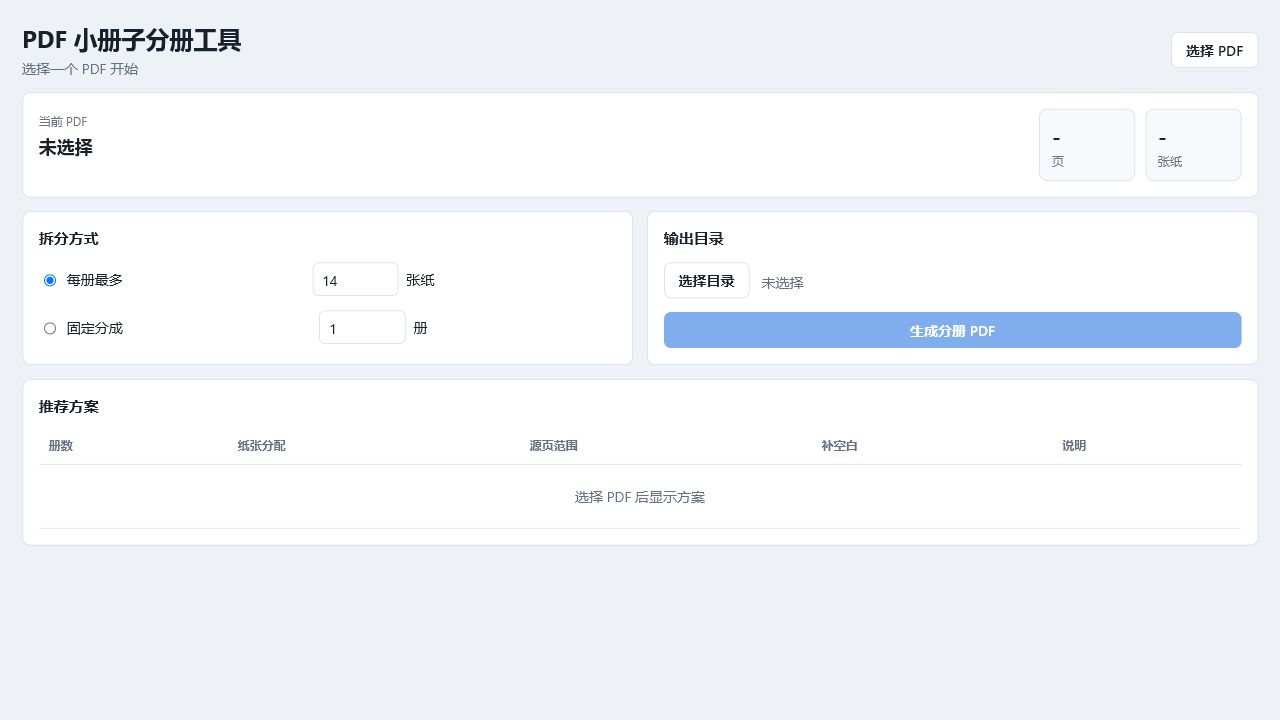
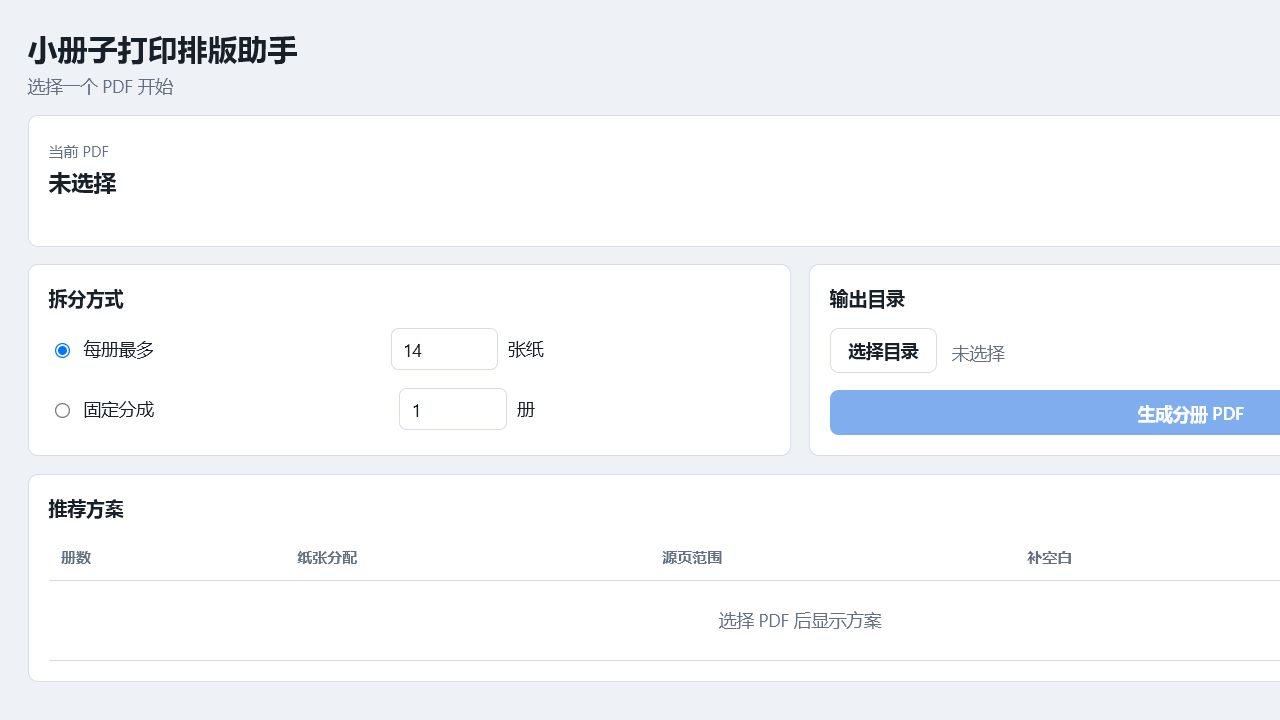
Rename project for booklet print layout

diff --git a/scripts/create_example_pdf.py b/scripts/create_example_pdf.py
@@ -24,7 +24,7 @@ def draw_page(pdf: canvas.Canvas, page_number: int, total_pages: int) -> None:
 
     pdf.setFillColor(colors.HexColor("#0f172a"))
     pdf.setFont("Helvetica-Bold", 22)
-    pdf.drawString(margin + 20, height - margin - 56, "Booklet Splitter Sample")
+    pdf.drawString(margin + 20, height - margin - 56, "Booklet Print Layout Sample")
 
     pdf.setFont("Helvetica", 12)
     pdf.setFillColor(colors.HexColor("#475569"))
@@ -51,8 +51,8 @@ def create_example_pdf(output_path: Path, page_count: int) -> None:
 
     output_path.parent.mkdir(parents=True, exist_ok=True)
     pdf = canvas.Canvas(str(output_path), pagesize=A5, invariant=1)
-    pdf.setTitle("Booklet Splitter Sample PDF")
-    pdf.setAuthor("Booklet Splitter")
+    pdf.setTitle("Booklet Print Layout Assistant Sample PDF")
+    pdf.setAuthor("Booklet Print Layout Assistant")
 
     for page_number in range(1, page_count + 1):
         draw_page(pdf, page_number, page_count)

diff --git a/tests/test_manifest.py b/tests/test_manifest.py
@@ -2,8 +2,8 @@ from __future__ import annotations
 
 from pathlib import Path
 
-from booklet_splitter.core.manifest import build_manifest_text
-from booklet_splitter.core.models import BookletPlan, OutputBooklet
+from booklet_print_layout_assistant.core.manifest import build_manifest_text
+from booklet_print_layout_assistant.core.models import BookletPlan, OutputBooklet
 
 
 def test_manifest_lists_booklet_ranges_and_files() -> None:

diff --git a/tests/test_pdf_writer.py b/tests/test_pdf_writer.py
@@ -2,7 +2,7 @@ from __future__ import annotations
 
 from pypdf import PdfReader, PdfWriter
 
-from booklet_splitter.core.pdf_writer import split_pdf
+from booklet_print_layout_assistant.core.pdf_writer import split_pdf
 
 
 def test_split_pdf_writes_padded_booklet_outputs(tmp_path) -> None:

diff --git a/tests/test_planning.py b/tests/test_planning.py
@@ -2,7 +2,7 @@ from __future__ import annotations
 
 import pytest
 
-from booklet_splitter.core.planning import (
+from booklet_print_layout_assistant.core.planning import (
     build_plan_options,
     distribute_sheets,
     distribute_sheets_by_count,

diff --git a/README.md b/README.md
@@ -1,14 +1,14 @@
-# Booklet Splitter
+# Booklet Print Layout Assistant
 
 [中文说明](README.zh-CN.md)
 
-![Booklet Splitter main window](docs/images/app-main.png)
+![Booklet Print Layout Assistant main window](docs/images/app-main.png)
 
-Booklet Splitter is a desktop tool for splitting a reading-order PDF into
-booklet-sized PDF parts. It is designed for PDFs that will later be printed as
-double-sided booklets, folded, and bound in multiple thin volumes.
+Booklet Print Layout Assistant is a desktop assistant for preparing booklet
+print layouts. The current release focuses on splitting reading-order PDFs into
+booklet-sized parts for printing, folding, and binding.
 
-The first release is intentionally narrow. It focuses on one workflow:
+The first release is intentionally narrow. It focuses on one PDF workflow:
 
 1. Choose a PDF.
 2. Choose a booklet splitting plan.
@@ -47,7 +47,7 @@ Each sheet represents four PDF page slots.
 total_sheets = ceil(total_pages / 4)
 ```
 
-When splitting by maximum sheets per booklet, Booklet Splitter first calculates
+When splitting by maximum sheets per booklet, Booklet Print Layout Assistant first calculates
 how many booklets are needed, then balances sheets across booklets.
 
 Example:
@@ -85,27 +85,27 @@ python -m pytest
 After installing the project:
 
 ```powershell
-booklet-splitter
+booklet-print-layout-assistant
 ```
 
 If your shell cannot find installed scripts, use:
 
 ```powershell
-python -m booklet_splitter
+python -m booklet_print_layout_assistant
 ```
 
 ## Command Line
 
 ```powershell
-booklet-split input.pdf --max-sheets 14
-booklet-split input.pdf --booklet-count 3
-booklet-split input.pdf --booklet-count 3 --output-dir output
+booklet-print input.pdf --max-sheets 14
+booklet-print input.pdf --booklet-count 3
+booklet-print input.pdf --booklet-count 3 --output-dir output
 ```
 
 Fallback form:
 
 ```powershell
-python -m booklet_splitter.cli input.pdf --max-sheets 14
+python -m booklet_print_layout_assistant.cli input.pdf --max-sheets 14
 ```
 
 ## Windows Build
@@ -123,13 +123,13 @@ your global Python environment.
 The distributable folder is:
 
 ```text
-dist\BookletSplitter\
+dist\BookletPrintLayoutAssistant\
 ```
 
 Run:
 
 ```text
-dist\BookletSplitter\BookletSplitter.exe
+dist\BookletPrintLayoutAssistant\BookletPrintLayoutAssistant.exe
 ```
 
 ## Examples
@@ -149,7 +149,7 @@ examples\sample-17-pages.pdf
 Try it with:
 
 ```powershell
-booklet-split examples\sample-17-pages.pdf --booklet-count 2
+booklet-print examples\sample-17-pages.pdf --booklet-count 2
 ```
 
 ## Release Zip
@@ -163,26 +163,40 @@ After building the Windows app, create a zip archive with:
 The release archive is written to:
 
 ```text
-release\BookletSplitter-v0.1.0-windows-x64.zip
+release\BookletPrintLayoutAssistant-v0.1.0-windows-x64.zip
 ```
 
 ## Project Layout
 
 ```text
-src/booklet_splitter/core/      PDF splitting logic and manifest generation
-src/booklet_splitter/app/       pywebview desktop integration
-src/booklet_splitter/frontend/  HTML/CSS/JS interface
+src/booklet_print_layout_assistant/core/      PDF splitting logic and manifest generation
+src/booklet_print_layout_assistant/app/       pywebview desktop integration
+src/booklet_print_layout_assistant/frontend/  HTML/CSS/JS interface
 tests/                          unit and smoke tests
 scripts/                        development and build helpers
 ```
 
+## GitHub Discoverability
+
+Suggested repository name:
+
+```text
+booklet-print-layout-assistant
+```
+
+Suggested topics:
+
+```text
+pdf, booklet, booklet-printing, pdf-splitter, printing, bookbinding,
+imposition, desktop-app, windows, pywebview, pypdf
+```
+
 ## Roadmap
 
-- Add release screenshots.
-- Add copyright-safe example PDFs.
-- Add a zip release script.
 - Add true 2-up booklet imposition.
 - Reintroduce optional color-page workflows.
+- Add EPUB, CBZ, and image-source workflows.
+- Add installer-based Windows distribution.
 
 ## License
 

diff --git a/README.zh-CN.md b/README.zh-CN.md
@@ -1,14 +1,15 @@
-# Booklet Splitter
+# Booklet Print Layout Assistant
 
 [English README](README.md)
 
-![Booklet Splitter 主界面](docs/images/app-main.png)
+![Booklet Print Layout Assistant 主界面](docs/images/app-main.png)
 
-Booklet Splitter 是一个用于 PDF 小册子分册的桌面工具。它适合这样的场景：
-你已经有一个按阅读顺序排好的 PDF，想把它拆成若干个较薄的小册子 PDF，
-方便后续双面打印、折叠和装订。
+Booklet Print Layout Assistant，中文名“小册子打印排版助手”，是一个用于准备
+小册子打印文件的桌面工具。当前版本先聚焦这样的场景：你已经有一个按阅读顺序
+排好的 PDF，想把它拆成若干个较薄的小册子 PDF，方便后续双面打印、折叠和装订。
 
 当前 `v0.1.0` 是一个刻意收窄功能边界的版本，只专注于 PDF 小册子分册。
+后续可以自然扩展 EPUB、CBZ、图片等来源，以及真正的小册子拼版。
 
 ## 功能
 
@@ -74,27 +75,27 @@ python -m pytest
 ## 运行桌面应用
 
 ```powershell
-booklet-splitter
+booklet-print-layout-assistant
 ```
 
 如果当前 shell 找不到安装后的脚本，可以用：
 
 ```powershell
-python -m booklet_splitter
+python -m booklet_print_layout_assistant
 ```
 
 ## 命令行使用
 
 ```powershell
-booklet-split input.pdf --max-sheets 14
-booklet-split input.pdf --booklet-count 3
-booklet-split input.pdf --booklet-count 3 --output-dir output
+booklet-print input.pdf --max-sheets 14
+booklet-print input.pdf --booklet-count 3
+booklet-print input.pdf --booklet-count 3 --output-dir output
 ```
 
 也可以使用：
 
 ```powershell
-python -m booklet_splitter.cli input.pdf --max-sheets 14
+python -m booklet_print_layout_assistant.cli input.pdf --max-sheets 14
 ```
 
 ## 示例 PDF
@@ -114,7 +115,7 @@ examples\sample-17-pages.pdf
 试着拆分：
 
 ```powershell
-booklet-split examples\sample-17-pages.pdf --booklet-count 2
+booklet-print examples\sample-17-pages.pdf --booklet-count 2
 ```
 
 ## Windows 打包
@@ -129,13 +130,13 @@ Anaconda 或全局 Python 环境里的无关依赖带进发布包。
 打包后的目录：
 
 ```text
-dist\BookletSplitter\
+dist\BookletPrintLayoutAssistant\
 ```
 
 运行：
 
 ```text
-dist\BookletSplitter\BookletSplitter.exe
+dist\BookletPrintLayoutAssistant\BookletPrintLayoutAssistant.exe
 ```
 
 ## 生成 Release Zip
@@ -149,25 +150,39 @@ dist\BookletSplitter\BookletSplitter.exe
 生成：
 
 ```text
-release\BookletSplitter-v0.1.0-windows-x64.zip
+release\BookletPrintLayoutAssistant-v0.1.0-windows-x64.zip
 ```
 
 ## 项目结构
 
 ```text
-src/booklet_splitter/core/      PDF 分册逻辑和清单生成
-src/booklet_splitter/app/       pywebview 桌面集成
-src/booklet_splitter/frontend/  HTML/CSS/JS 界面
+src/booklet_print_layout_assistant/core/      PDF 分册逻辑和清单生成
+src/booklet_print_layout_assistant/app/       pywebview 桌面集成
+src/booklet_print_layout_assistant/frontend/  HTML/CSS/JS 界面
 tests/                          测试
 scripts/                        开发和打包脚本
 ```
 
+## GitHub 检索建议
+
+建议仓库名：
+
+```text
+booklet-print-layout-assistant
+```
+
+建议 topics：
+
+```text
+pdf, booklet, booklet-printing, pdf-splitter, printing, bookbinding,
+imposition, desktop-app, windows, pywebview, pypdf
+```
+
 ## 路线图
 
-- 补充更多截图。
-- 增加更多无版权示例 PDF。
 - 增加真正的 A4 2-up 小册子拼版。
 - 重新引入可选彩页工作流。
+- 增加 EPUB、CBZ、图片来源工作流。
 - 增加安装包形式发布。
 
 ## 许可证

diff --git a/RELEASE_NOTES.md b/RELEASE_NOTES.md
@@ -1,29 +1,30 @@
-# Booklet Splitter v0.1.0
+# Booklet Print Layout Assistant v0.1.0
 
-This is the first public preview release of Booklet Splitter.
+This is the first public preview release of Booklet Print Layout Assistant.
 
 ## Download
 
 For Windows, download:
 
 ```text
-BookletSplitter-v0.1.0-windows-x64.zip
+BookletPrintLayoutAssistant-v0.1.0-windows-x64.zip
 ```
 
 Unzip it and run:
 
 ```text
-BookletSplitter\BookletSplitter.exe
+BookletPrintLayoutAssistant\BookletPrintLayoutAssistant.exe
 ```
 
 ## Highlights
 
-- Desktop UI for splitting reading-order PDFs into booklet-sized parts.
+- Desktop UI for preparing booklet print layouts.
+- PDF workflow for splitting reading-order PDFs into booklet-sized parts.
 - Split by maximum sheets per booklet.
 - Split by fixed booklet count.
 - Automatic blank-page padding to fill booklet capacity.
 - Print manifest output: `打印清单.txt` and `manifest.txt`.
-- Command line interface: `booklet-split`.
+- Command line interface: `booklet-print`.
 - Copyright-safe 17-page sample PDF.
 
 ## Limitations
@@ -41,4 +42,4 @@ Before packaging this release:
 - `python -m pytest` passed with 8 tests.
 - The sample PDF was rendered and visually checked.
 - The Windows PyInstaller build completed.
-- The packaged `BookletSplitter.exe` started successfully.
+- The packaged `BookletPrintLayoutAssistant.exe` started successfully.

diff --git a/CONTRIBUTING.md b/CONTRIBUTING.md
@@ -1,6 +1,6 @@
 # Contributing
 
-Thanks for helping improve Booklet Splitter.
+Thanks for helping improve Booklet Print Layout Assistant.
 
 ## Development Setup
 
@@ -26,4 +26,4 @@ python -m pytest
 .\scripts\build_windows.ps1
 ```
 
-The packaged app will be written to `dist\BookletSplitter\`.
+The packaged app will be written to `dist\BookletPrintLayoutAssistant\`.

diff --git a/examples/README.md b/examples/README.md
@@ -1,6 +1,6 @@
 # Examples
 
-This directory contains copyright-safe sample files for trying Booklet Splitter.
+This directory contains copyright-safe sample files for trying Booklet Print Layout Assistant.
 
 `sample-17-pages.pdf` is generated by:
 